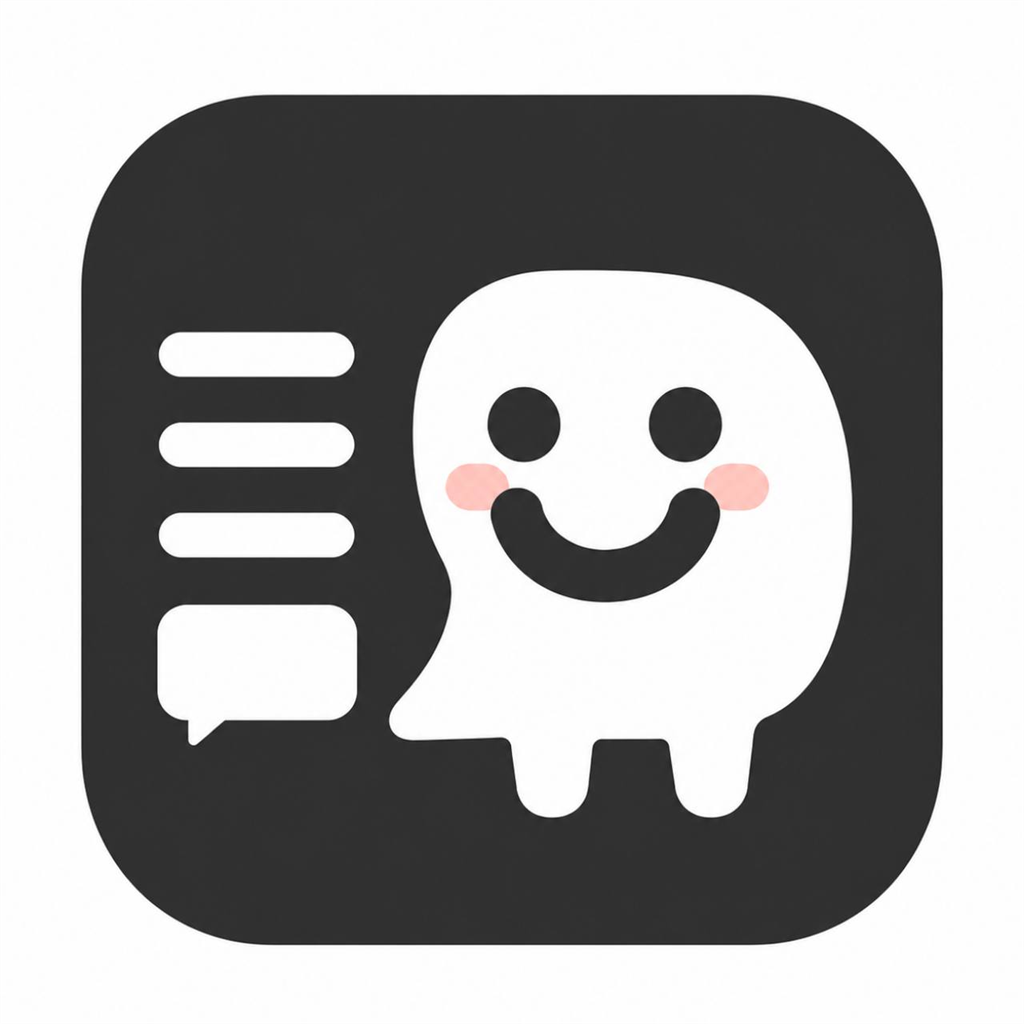
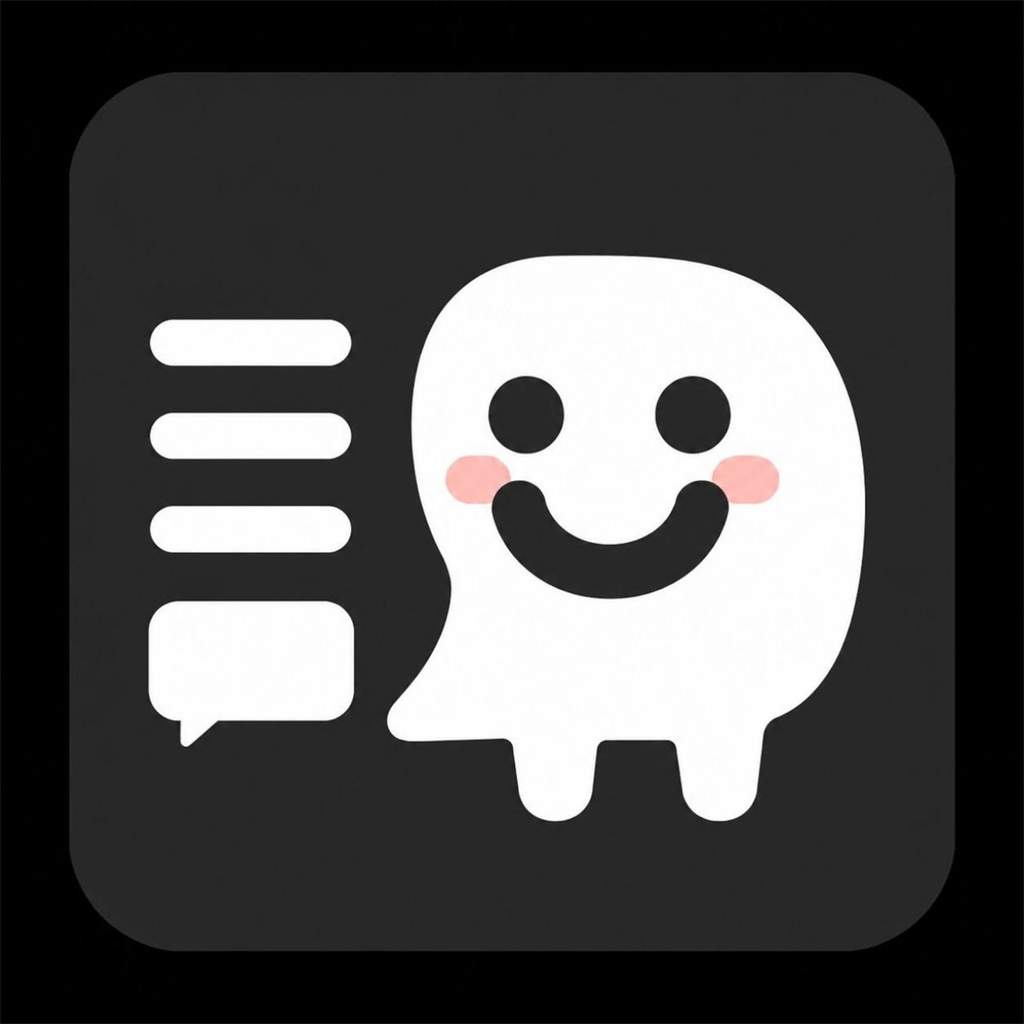
Prepare Play store assets for v0.2.5

diff --git a/docs/RELEASE_PROCESS.md b/docs/RELEASE_PROCESS.md
@@ -7,8 +7,8 @@ SHINE AAC uses one release version for source, APK metadata, tags, and release f
 Edit `version.properties`:
 
 ```properties
-versionName=0.2.4
-versionCode=7
+versionName=0.2.5
+versionCode=8
 ```
 
 - `versionName`: public SemVer version.
@@ -39,9 +39,9 @@ Build and package a versioned debug APK:
 This creates:
 
 ```text
-releases\v0.2.4\shine-aac-v0.2.4-code7-debug.apk
-releases\v0.2.4\SHA256SUMS.txt
-releases\v0.2.4\RELEASE_NOTES.md
+releases\v0.2.5\shine-aac-v0.2.5-code8-debug.apk
+releases\v0.2.5\SHA256SUMS.txt
+releases\v0.2.5\RELEASE_NOTES.md
 ```
 
 Do not share `app-debug.apk` directly. It is an intermediate build output and is overwritten on every build.
@@ -74,6 +74,6 @@ Keep the real keystore properties file and `.jks` file out of Git. Use `keystore
 6. Push the tag. GitHub Actions publishes the GitHub Release and attaches the versioned APK plus `SHA256SUMS.txt`.
 
 ```powershell
-git tag v0.2.4
-git push origin v0.2.4
+git tag v0.2.5
+git push origin v0.2.5
 ```

diff --git a/releases/v0.2.5/RELEASE_NOTES.md b/releases/v0.2.5/RELEASE_NOTES.md
@@ -1,0 +1,20 @@
+# SHINE AAC v0.2.5
+
+Android version code: 8
+
+## Build
+
+- Debug APK: `shine-aac-v0.2.5-code8-debug.apk`
[1 lines of base64/hex data omitted]
+
+## Verification
+
+- `.\package-release.bat -SdkDir E:\Android\Sdk` PASS: Gradle unit tests and debug APK build
+- `.\build-play-aab.bat -SdkDir E:\Android\Sdk -KeystoreProperties E:\Android\keys\saytome-upload.properties` PASS
[1 lines of base64/hex data omitted]
+
+## Notes
+
+- Debug APK for user testing, not Play Store distribution.
+- Play upload candidate uses the new clean-background mascot launcher icon.
+- Store screenshots were cleaned from real-device captures by removing Android system bars.
